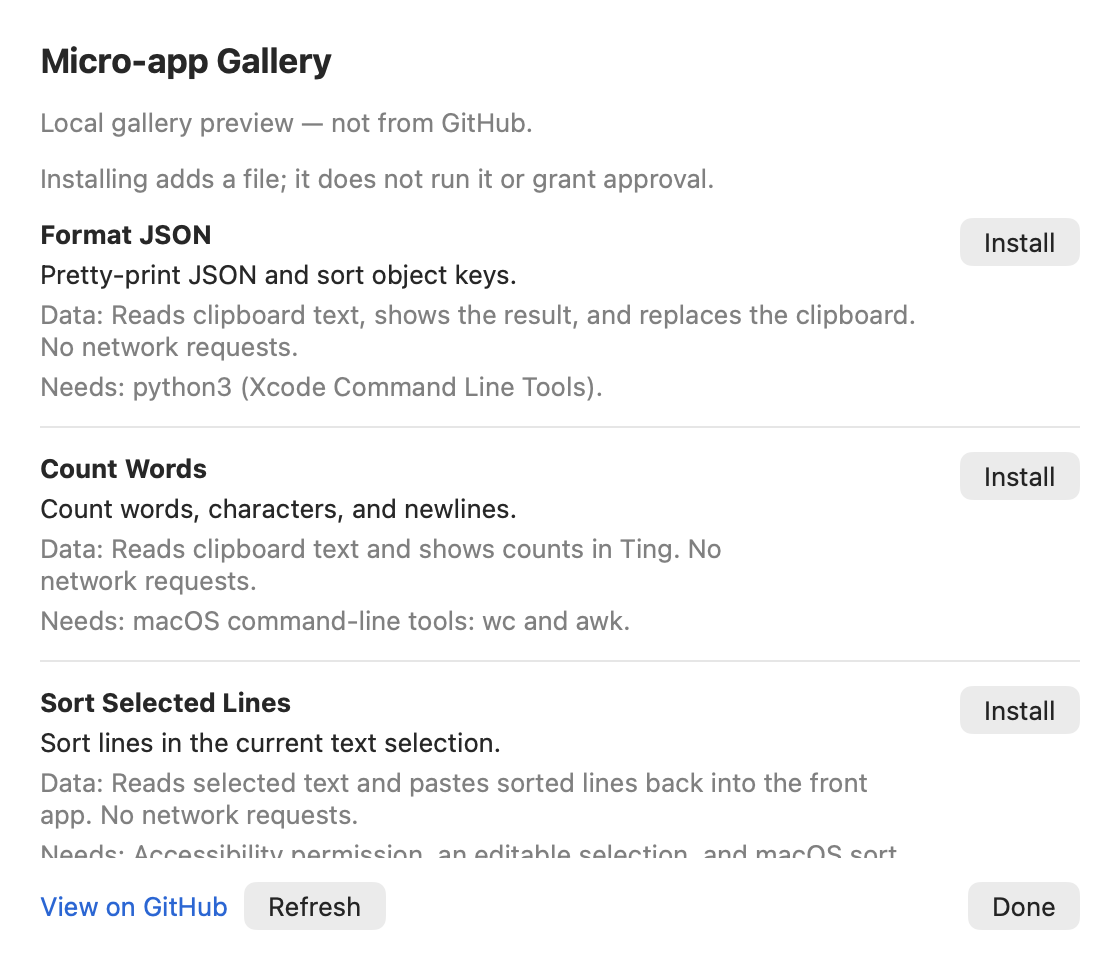
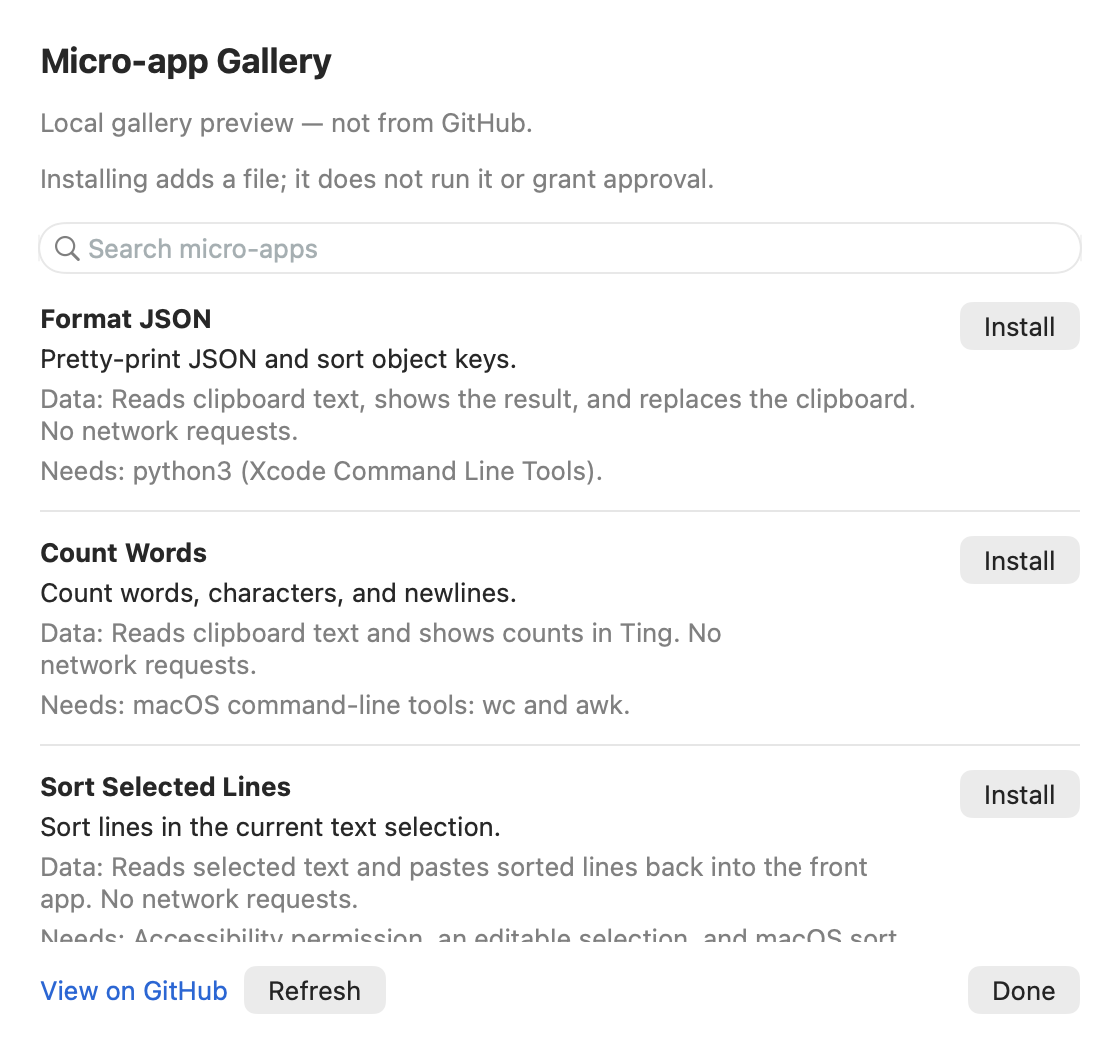
Make the Micro-app Gallery searchable
Filter catalog metadata on the Mac without sending queries to GitHub. Add two starter micro-apps and refresh the PR preview.

diff --git a/Sources/Ting/Settings/MicroAppGalleryView.swift b/Sources/Ting/Settings/MicroAppGalleryView.swift
@@ -1,3 +1,4 @@
+import BobukUI
 import SwiftUI
 import TingCore
 
@@ -5,6 +6,7 @@ struct MicroAppGalleryView: View {
     @Environment(AppModel.self) private var model
     @Environment(\.dismiss) private var dismiss
     @State private var gallery: MicroAppGallery?
+    @State private var query = ""
     @State private var catalogError: String?
     @State private var refresh = 0
     @State private var installing: MicroAppGallery.Listing?
@@ -58,18 +60,9 @@ struct MicroAppGalleryView: View {
             if gallery.listings.isEmpty {
                 Text("No micro-apps in the gallery yet.").foregroundStyle(.secondary)
             } else {
-                let localIDs = Set(model.microApps.map(\.bindingID))
-                let localFiles = Set(model.microApps.map(\.file))
-                ScrollView {
-                    VStack(alignment: .leading, spacing: 12) {
-                        ForEach(gallery.listings) { listing in
-                            listingRow(listing, local: localIDs.contains(listing.id) || localFiles.contains(listing.fileName))
-                            if listing.id != gallery.listings.last?.id { Divider() }
-                        }
-                    }
-                    .frame(maxWidth: .infinity, alignment: .leading)
-                }
-                .frame(height: 320)
+                PickerSearchField(text: $query, placeholder: "Search micro-apps",
+                                  accessibilityLabel: "Search the Micro-app Gallery", palette: TingPickerStyle.palette)
+                galleryResults(gallery.matching(query))
             }
             if let installError {
                 Label(installError, systemImage: "exclamationmark.triangle")
@@ -80,6 +73,30 @@ struct MicroAppGalleryView: View {
         } else {
             ProgressView("Loading gallery…")
         }
+    }
+
+    private func galleryResults(_ listings: [MicroAppGallery.Listing]) -> some View {
+        let localIDs = Set(model.microApps.map(\.bindingID))
+        let localFiles = Set(model.microApps.map(\.file))
+        return Group {
+            if listings.isEmpty {
+                ContentUnavailableView.search(text: query)
+            } else {
+                ScrollView {
+                    LazyVStack(alignment: .leading, spacing: 12) {
+                        ForEach(listings) { listing in
+                            VStack(alignment: .leading, spacing: 12) {
+                                listingRow(listing, local: localIDs.contains(listing.id) || localFiles.contains(listing.fileName))
+                                if listing.id != listings.last?.id { Divider() }
+                            }
+                        }
+                    }
+                    .frame(maxWidth: .infinity, alignment: .leading)
+                }
+                .id(query)
+            }
+        }
+        .frame(height: 320)
     }
 
     private func listingRow(_ listing: MicroAppGallery.Listing, local: Bool) -> some View {

diff --git a/Tests/TingServiceTests/MicroAppGalleryTests.swift b/Tests/TingServiceTests/MicroAppGalleryTests.swift
@@ -69,6 +69,16 @@ final class MicroAppGalleryTests: XCTestCase {
         }
     }
 
+    func testSearchMatchesWordsAcrossListingFields() throws {
+        let gallery = try index()
+        XCTAssertEqual(gallery.matching(" \n ").map(\.id), gallery.listings.map(\.id))
+        XCTAssertEqual(gallery.matching("  jSOn ").map(\.id), ["format-json"])
+        XCTAssertEqual(gallery.matching("markdown Automation").map(\.id), ["copy-page-link"])
+        XCTAssertEqual(gallery.matching("bundle Accessibility").map(\.id), ["app-info"])
+        XCTAssertEqual(gallery.matching("change-case").map(\.id), ["change-case"])
+        XCTAssertTrue(gallery.matching("json zzz-not-a-listing").isEmpty)
+    }
+
     func testRefusesInvalidIndexAndComparesVersionsNumerically() throws {
         let listing = try fixture().0
         XCTAssertTrue(listing.supports(tingVersion: listing.minimumTingVersion))

diff --git a/Sources/TingCore/MicroAppGallery.swift b/Sources/TingCore/MicroAppGallery.swift
@@ -72,6 +72,16 @@ public struct MicroAppGallery: Decodable, Sendable {
         }
     }
 
+    /// Search listing metadata locally. Every word must match somewhere in the listing.
+    public func matching(_ query: String) -> [Listing] {
+        let terms = query.split(whereSeparator: \.isWhitespace).map(String.init)
+        guard !terms.isEmpty else { return listings }
+        return listings.filter { listing in
+            let fields = [listing.id, listing.title, listing.description, listing.dataAccess, listing.requirements]
+            return terms.allSatisfy { term in fields.contains { $0.localizedStandardContains(term) } }
+        }
+    }
+
     public static func decode(_ data: Data) throws -> Self {
         guard data.count <= maxIndexSize else { throw Problem.tooLarge }
         do { return try JSONDecoder().decode(Self.self, from: data) }

diff --git a/docs/micro-apps/gallery/README.md b/docs/micro-apps/gallery/README.md
@@ -1,8 +1,9 @@
 # Ting Micro-app Gallery
 
-Browse in **Settings → Micro-apps → Browse Gallery**. Install a tool, then record
-an optional hotkey or find it in launcha. Ting does not run it or grant approval on
-install. On first run of new code, review the file before approving it.
+Open **Settings → Micro-apps → Browse Gallery** to browse or search these starter
+apps. Install one, then record an optional hotkey or find it in launcha. Ting does
+not run it or grant approval on install. On first run of new code, review the file
+before approving it.
 
 | Micro-app | What it does |
 | --- | --- |
@@ -11,6 +12,8 @@ install. On first run of new code, review the file before approving it.
 | [Sort Selected Lines](sort-selection.yaml) | Sort text in place in the front app. |
 | [Copy Page Link](copy-page-link.yaml) | Copy the front browser tab as a Markdown link. |
 | [Finder Checksum](finder-checksum.yaml) | Show SHA-256 checksums for files selected in Finder. |
+| [Change Case](change-case.yaml) | Convert clipboard text to upper, lower, or title case. |
+| [About the Active App](app-info.yaml) | Show the active app and its front window details. |
 
 See [`catalog.json`](catalog.json) for what each tool reads or writes, any network
 use, and what permissions or tools it needs. Curated by Ting means reviewed for
